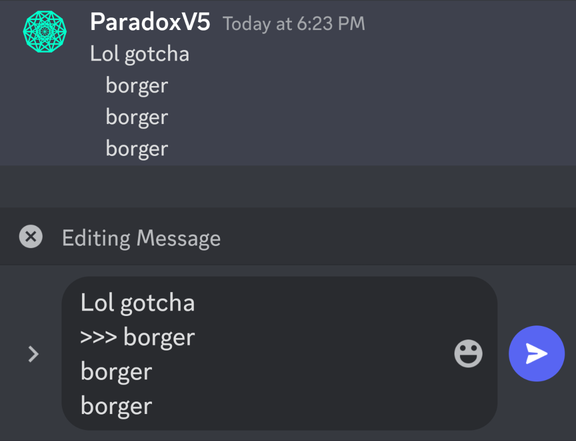
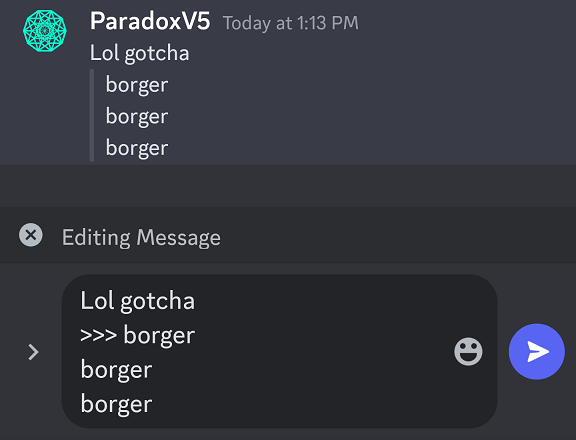
Update `quote3.png`

diff --git a/README.md b/README.md
@@ -104,12 +104,12 @@ such as Google or (back when Replies weren’t a thing) other people’s message
 
 On Mobile (and ancient versions of Discord such as the one 101 used),
 `>>> ` at the beginning of a line of text puts that line and the rest of your message in a multiline block quote.
-[This screenshot taken on Build 165.15 is missing the gray quote-indent line – did I just catch a 🐛‽]
+[This screenshot was retaken on Mobile 175.16; Mobile 165.15 was missing the gray quote-indent line.]
 
 ![multiline block quote](images/quote3.png)
 
 Multiline block quotes save the need to punch `> ` on every line, especially for code blocks which disable Markdown.
-[This screenshot taken on Build 165.15 is missing a space – another 🐛‽]
+[This screenshot taken on Mobile 165.15 is missing a leading space – possibly a 🐛?]
 
 ![code block quote](images/quote5.png)
 
